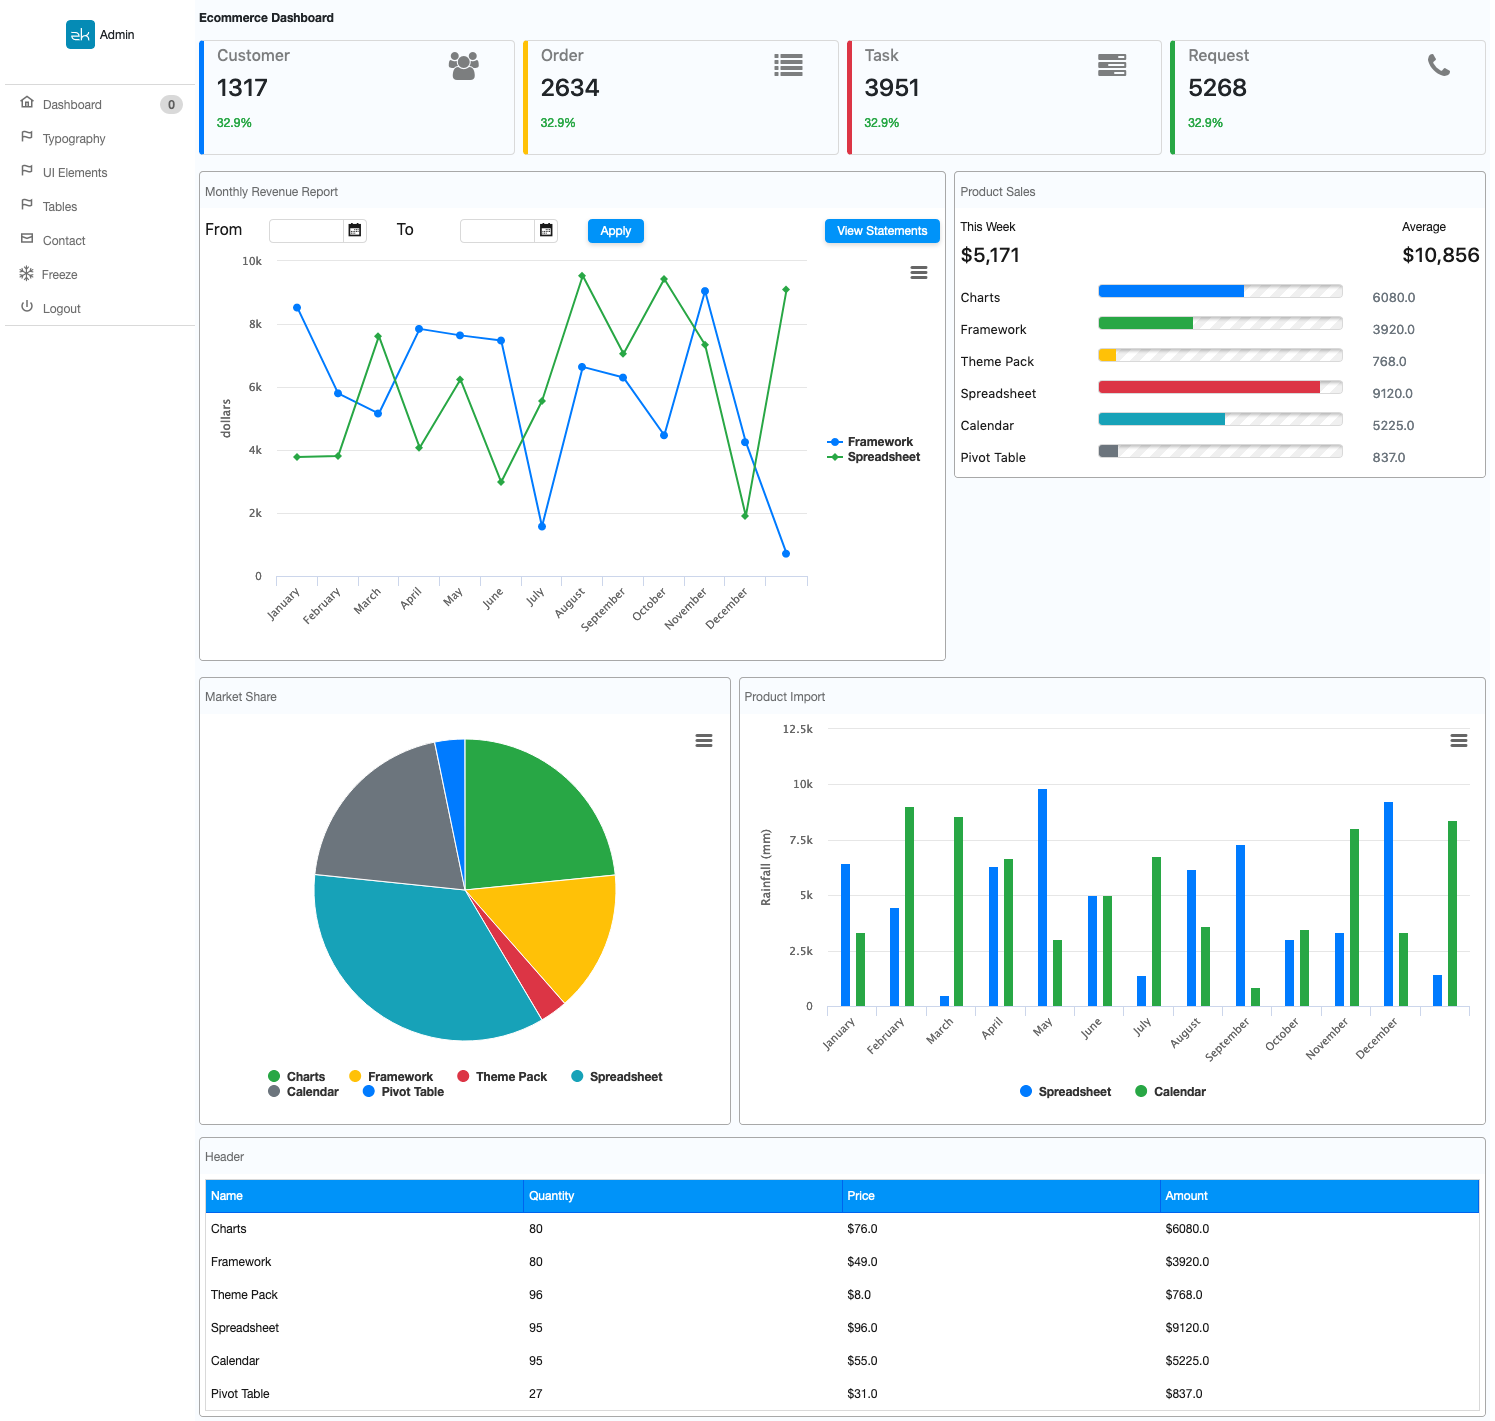
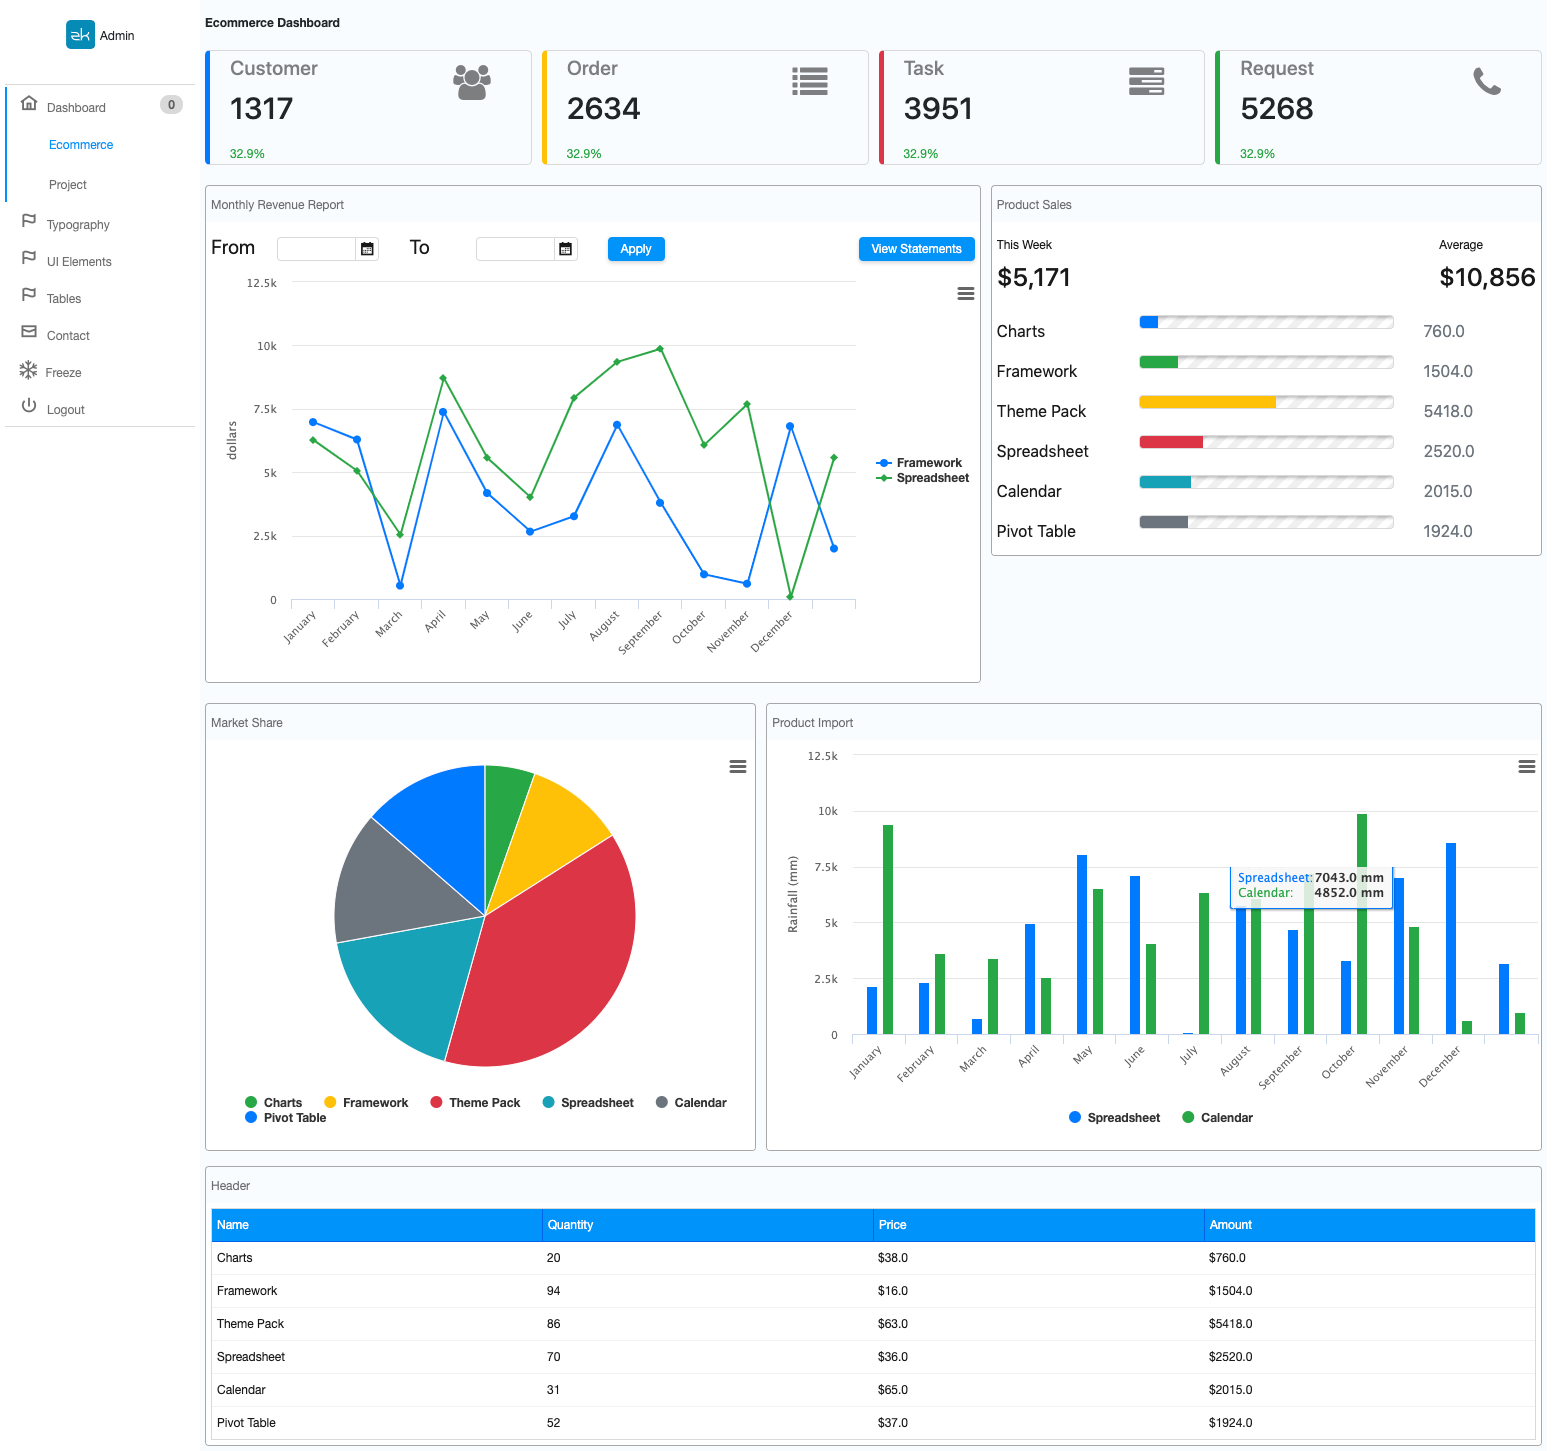
update readme and screenshots

diff --git a/README.md b/README.md
@@ -7,11 +7,15 @@
 * create a custom component with shadow elements
 
 # Screenshots
+3 different screen width:
 
+## Large
 ![](image/screenshot-lg.png)
 
+## Medium
 ![](image/screenshot-md.png)
 
+## Small
 ![](image/screenshot-sm.png)
 
 
